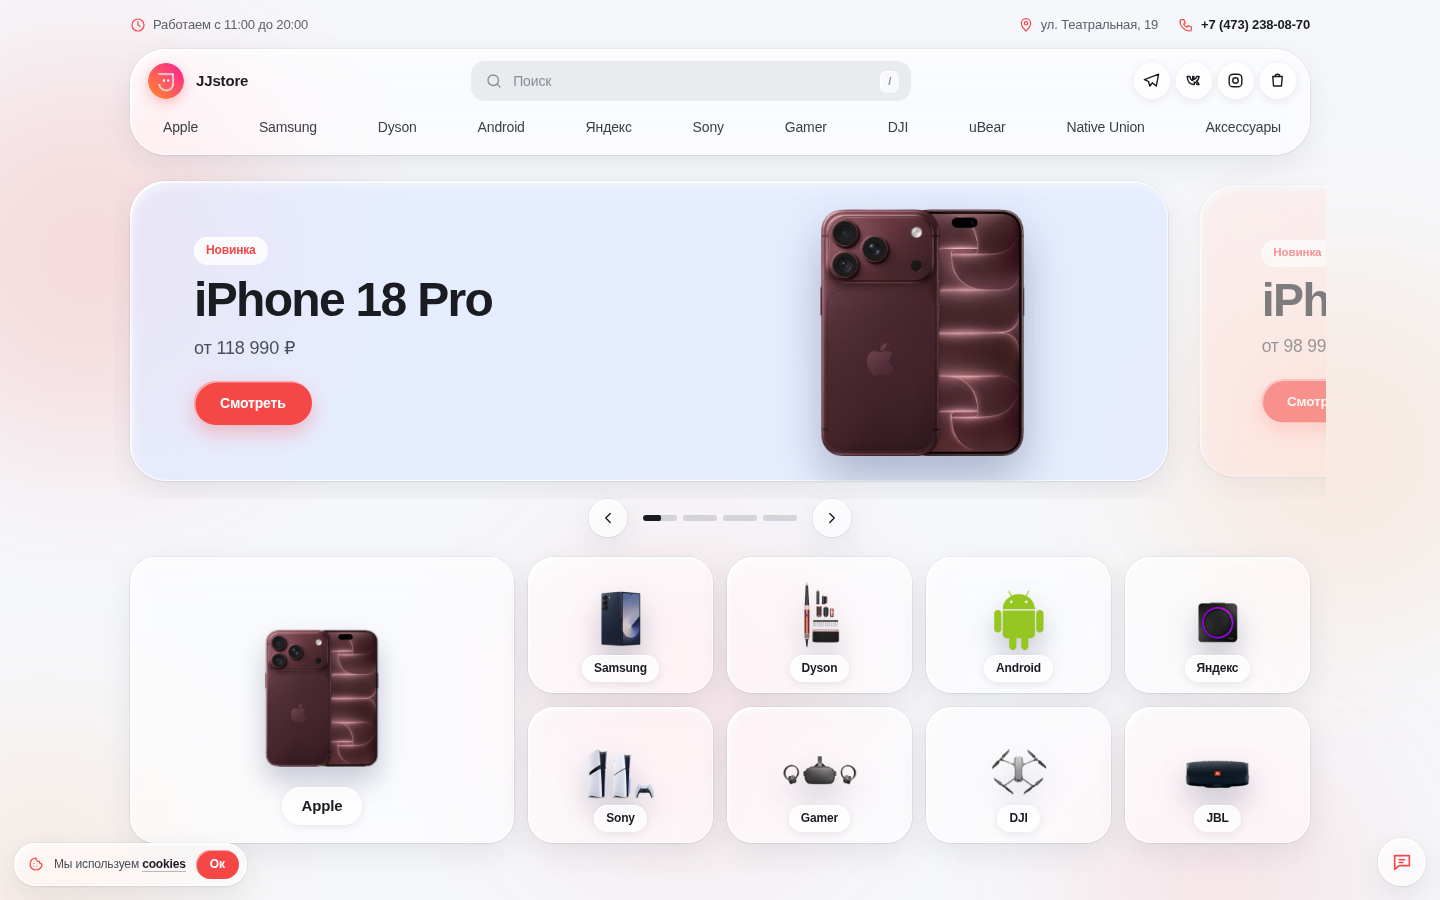
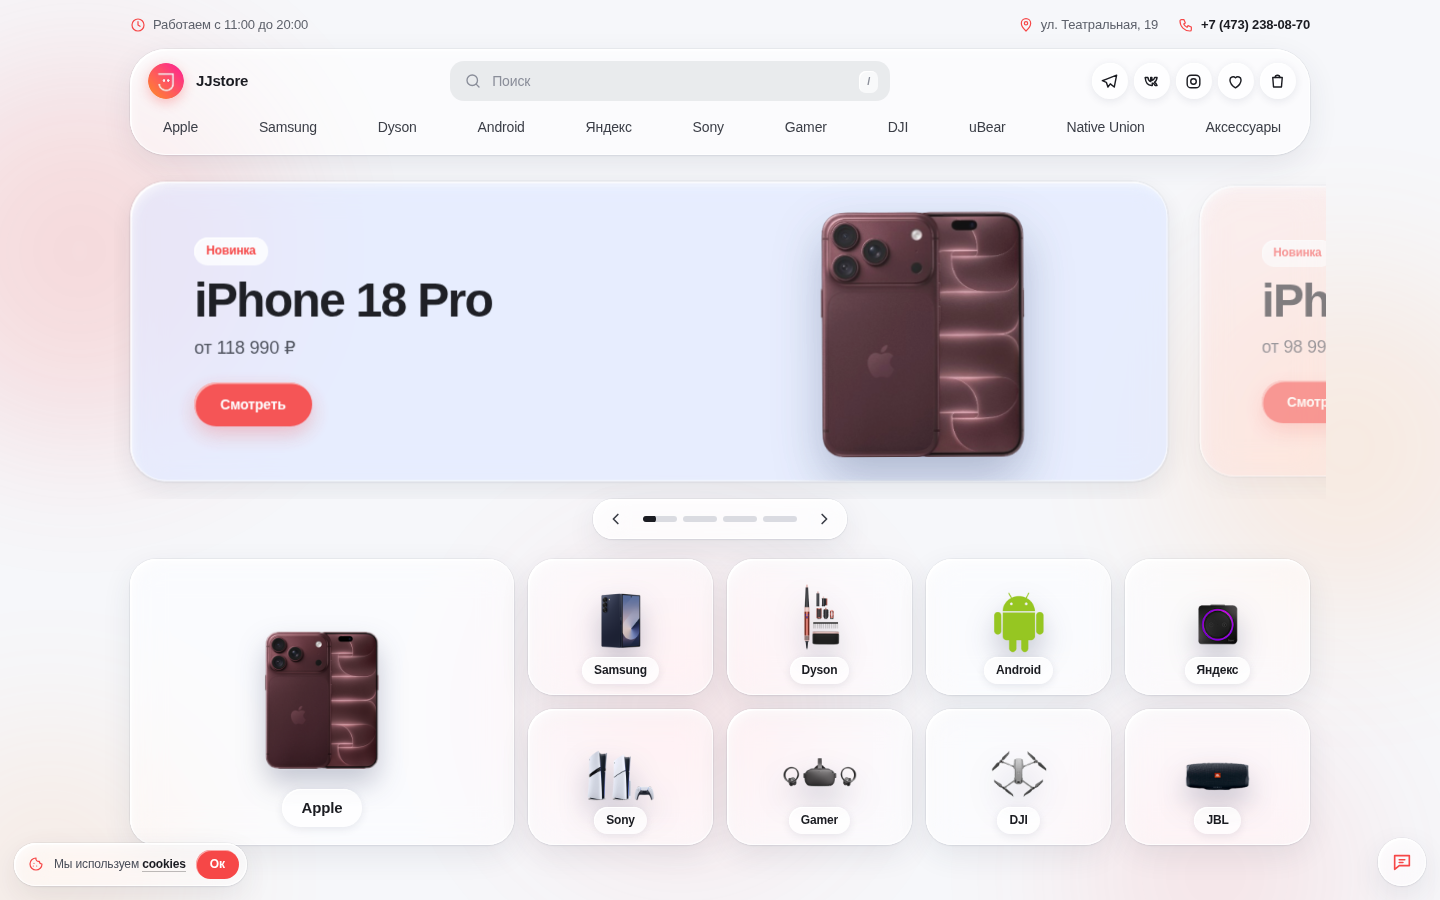
Carousel controls as joined glass pill, endless ping-pong scroll for Новинки
Claude-Session: https://claude.ai/code/session_0163ZjdM2uxMpsZRiagcJtBK

diff --git a/index.html b/index.html
@@ -87,9 +87,11 @@
       </a>
     </div>
     <div class="hero-ui">
-      <button class="nav-btn glass" id="hPrev" aria-label="Назад"><svg viewBox="0 0 24 24"><path d="m15 6-6 6 6 6"/></svg></button>
-      <div class="dots" id="dots"></div>
-      <button class="nav-btn glass" id="hNext" aria-label="Вперёд"><svg viewBox="0 0 24 24"><path d="m9 6 6 6-6 6"/></svg></button>
+      <div class="hero-pill glass">
+        <button class="hp-btn" id="hPrev" aria-label="Назад"><svg viewBox="0 0 24 24"><path d="m14.500 6-6 6 6 6"/></svg></button>
+        <div class="dots" id="dots"></div>
+        <button class="hp-btn" id="hNext" aria-label="Вперёд"><svg viewBox="0 0 24 24"><path d="m9.500 6 6 6-6 6"/></svg></button>
+      </div>
     </div>
   </section>
 
@@ -128,20 +130,16 @@
   </section>
 
   <section class="row products" data-reveal>
-    <div class="sec-head"><h2 class="sec-title"><i class="dot"></i>Новинки</h2><a class="sec-all" href="https://jjstore.ru/apple/iphone" target="_blank" rel="noopener">Все<svg viewBox="0 0 24 24"><path d="m9 6 6 6-6 6"/></svg></a></div>
+    <div class="sec-head"><h2 class="sec-title"><i class="dot"></i>Новинки</h2><div class="sec-ctl"><a class="sec-all" href="https://jjstore.ru/apple/iphone" target="_blank" rel="noopener">Все<svg viewBox="0 0 24 24"><path d="m9 6 6 6-6 6"/></svg></a><div class="pager glass" role="group" aria-label="Прокрутка"><button class="pg prev" aria-label="Назад"><svg viewBox="0 0 24 24"><path d="m14.500 6-6 6 6 6"/></svg></button><i></i><button class="pg next" aria-label="Вперёд"><svg viewBox="0 0 24 24"><path d="m9.500 6 6 6-6 6"/></svg></button></div></div></div>
     <div class="scroller">
-      <button class="arrow prev" aria-label="Назад"><svg viewBox="0 0 24 24"><path d="m15 6-6 6 6 6"/></svg></button>
       <div class="track" id="trackNew"></div>
-      <button class="arrow next" aria-label="Вперёд"><svg viewBox="0 0 24 24"><path d="m9 6 6 6-6 6"/></svg></button>
     </div>
   </section>
 
   <section class="row products" data-reveal>
-    <div class="sec-head"><h2 class="sec-title"><i class="dot"></i>Популярное</h2><a class="sec-all" href="https://jjstore.ru/apple" target="_blank" rel="noopener">Все<svg viewBox="0 0 24 24"><path d="m9 6 6 6-6 6"/></svg></a></div>
+    <div class="sec-head"><h2 class="sec-title"><i class="dot"></i>Популярное</h2><div class="sec-ctl"><a class="sec-all" href="https://jjstore.ru/apple" target="_blank" rel="noopener">Все<svg viewBox="0 0 24 24"><path d="m9 6 6 6-6 6"/></svg></a><div class="pager glass" role="group" aria-label="Прокрутка"><button class="pg prev" aria-label="Назад"><svg viewBox="0 0 24 24"><path d="m14.500 6-6 6 6 6"/></svg></button><i></i><button class="pg next" aria-label="Вперёд"><svg viewBox="0 0 24 24"><path d="m9.500 6 6 6-6 6"/></svg></button></div></div></div>
     <div class="scroller">
-      <button class="arrow prev" aria-label="Назад"><svg viewBox="0 0 24 24"><path d="m15 6-6 6 6 6"/></svg></button>
       <div class="track" id="trackPop"></div>
-      <button class="arrow next" aria-label="Вперёд"><svg viewBox="0 0 24 24"><path d="m9 6 6 6-6 6"/></svg></button>
     </div>
   </section>
 

diff --git a/assets/script.js b/assets/script.js
@@ -211,7 +211,8 @@
   $('#trackNew').innerHTML = NEW_IDS.map(n => card(feat(n), { isNew: true })).join('');
   $('#trackPop').innerHTML = POP_IDS.map(n => card(feat(n))).join('');
   $$('.scroller').forEach(sc => {
-    const tr = sc.querySelector('.track'), pv = sc.querySelector('.prev'), nx = sc.querySelector('.next');
+    const tr = sc.querySelector('.track'), row = sc.closest('.row');
+    const pv = row && row.querySelector('.pager .prev'), nx = row && row.querySelector('.pager .next');
     if (!pv) return;
     const step = () => Math.max(tr.clientWidth * .8, 240);
     pv.onclick = () => tr.scrollBy({ left: -step(), behavior: 'smooth' });
@@ -219,6 +220,32 @@
     const upd = () => { pv.classList.toggle('off', tr.scrollLeft < 8); nx.classList.toggle('off', tr.scrollLeft + tr.clientWidth > tr.scrollWidth - 8); };
     tr.addEventListener('scroll', upd, { passive: true }); upd();
   });
+
+  /* "Новинки": slow endless ping-pong scroll (left <-> right); pauses while the user touches / hovers it */
+  (function () {
+    const tr = $('#trackNew'); if (!tr || matchMedia('(prefers-reduced-motion:reduce)').matches) return;
+    const SPEED = 38;                       // px per second
+    let pos = 0, dir = 1, last = 0, paused = false, resumeT, visible = false, raf = 0;
+    const pause = () => { paused = true; clearTimeout(resumeT); };
+    const resume = (ms = 1800) => { clearTimeout(resumeT); resumeT = setTimeout(() => { paused = false; pos = tr.scrollLeft; }, ms); };
+    ['pointerenter', 'pointerdown', 'touchstart', 'focusin'].forEach(ev => tr.addEventListener(ev, pause, { passive: true }));
+    ['pointerleave', 'touchend', 'focusout'].forEach(ev => tr.addEventListener(ev, () => resume(), { passive: true }));
+    tr.addEventListener('wheel', () => { pause(); resume(2200); }, { passive: true });
+    $('#trackNew').closest('.row').querySelectorAll('.pager button').forEach(b => b.addEventListener('click', () => { pause(); resume(2600); }));
+    const tick = t => {
+      raf = requestAnimationFrame(tick);
+      const dt = Math.min(64, t - (last || t)); last = t;
+      if (paused || !visible || !tr.offsetParent) return;
+      const max = tr.scrollWidth - tr.clientWidth; if (max <= 0) return;
+      if (Math.abs(tr.scrollLeft - pos) > 2) pos = tr.scrollLeft;        // the user moved it: follow
+      pos += dir * SPEED * dt / 1000;
+      if (pos >= max) { pos = max; dir = -1; } else if (pos <= 0) { pos = 0; dir = 1; }
+      tr.scrollLeft = pos;
+    };
+    if ('IntersectionObserver' in window) new IntersectionObserver(es => { visible = es[0].isIntersecting; }, { threshold: .2 }).observe(tr); else visible = true;
+    tr.classList.add('auto');
+    raf = requestAnimationFrame(tick);
+  })();
 
   /* Hero banners: snap scroller, dots, arrows, autoplay */
   (function () {

diff --git a/assets/style.css b/assets/style.css
@@ -626,3 +626,23 @@ body.in-catalog .minicart{bottom:calc(16px + env(safe-area-inset-bottom))}
 .ci .buy{font-size:12.5px;padding:8px 18px}
 .ci .slot{min-height:0;justify-content:flex-start}
 .price-f label{white-space:nowrap}
+
+/* ---------- carousel controls: joined glass pill instead of round arrows ---------- */
+.sec-ctl{display:flex;align-items:center;gap:10px}
+.pager{display:inline-flex;align-items:stretch;height:38px;border-radius:99px;padding:3px;background:rgba(255,255,255,.7)}
+.pager i{width:1px;margin:8px 2px;background:rgba(40,50,80,.14)}
+.pg,.hp-btn{display:grid;place-items:center;font-size:18px;color:#3b3e47;transition:background .25s,color .25s,transform .3s var(--ease),opacity .25s}
+.pg{width:42px;border-radius:99px}
+.pg svg,.hp-btn svg{stroke-width:2.2}
+.pg:hover:not(.off){background:rgba(246,71,71,.1);color:var(--accent)}
+.pg:active:not(.off){transform:scale(.9)}
+.pg.off{opacity:.3;pointer-events:none}
+.hero-ui{display:flex;justify-content:center}
+.hero-pill{display:inline-flex;align-items:center;gap:6px;padding:5px 6px;border-radius:99px;background:rgba(255,255,255,.7)}
+.hp-btn{width:34px;height:30px;border-radius:99px}
+.hp-btn:hover{background:rgba(246,71,71,.1);color:var(--accent)}
+.hp-btn:active{transform:scale(.88)}
+.hero-pill .dots{padding:0 4px}
+/* auto-scrolling row must not fight scroll-snap; soft fade at both edges */
+.track.auto{scroll-snap-type:none;scroll-behavior:auto;-webkit-mask-image:linear-gradient(90deg,transparent 0,#000 28px,#000 calc(100% - 28px),transparent 100%);mask-image:linear-gradient(90deg,transparent 0,#000 28px,#000 calc(100% - 28px),transparent 100%)}
+@media(max-width:760px){.pager{height:34px}.pg{width:36px}}
